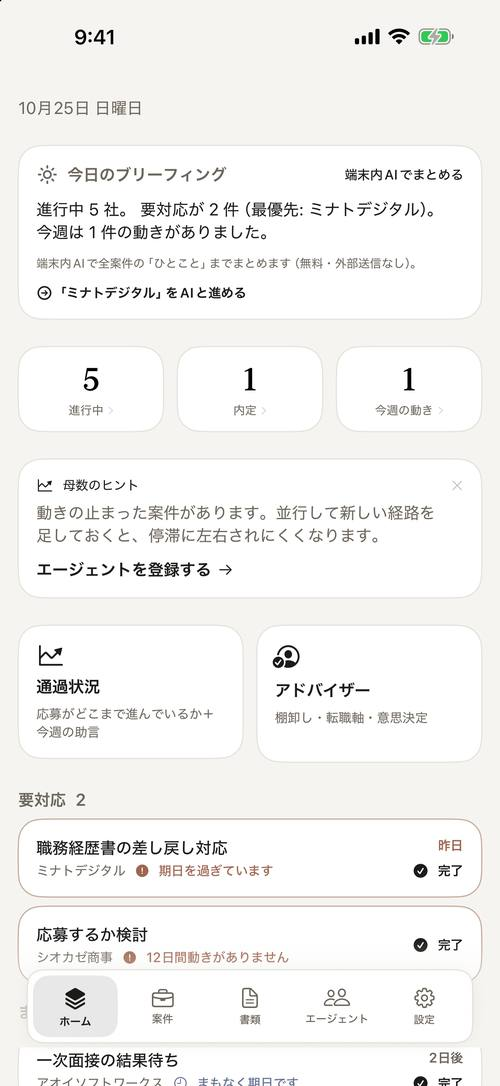
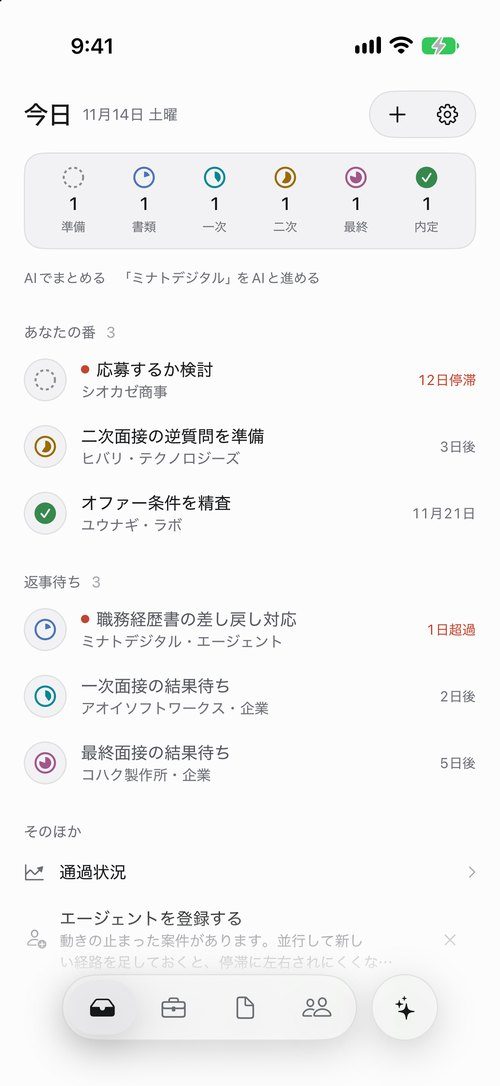
Glidwell: 画面画像9枚と説明を 1.8.0 の新しい画面に差し替え

diff --git a/glidwell.html b/glidwell.html
@@ -146,8 +146,8 @@
           <img class="story-shot" src="./assets/screens/glidwell-v2-home.jpg" alt="Glidwell ホームの画面" width="880" height="1907" loading="lazy" decoding="async">
           <div class="story-text">
             <div class="story-kicker">ホーム</div>
-            <h2>静かな1行から、一日が始まる。</h2>
-            <p>ホームは日付だけ。開くたびに急かされず、必要なときに「今日のブリーフィング」や進行中・内定・今週の動きを確認できます。</p>
+            <h2>今日やることが、いちばん上に。</h2>
+            <p>ホームは「あなたの番」と「返事待ち」に分かれています。自分が動く案件が上に並び、相手の返事を待っている案件は一段控えめに。上の帯では、応募準備から内定まで、どの段階に何社あるかを確認できます。</p>
             <p>複数のエージェントを併用しても、全体の現在地が散らばらない。「落ち着いて、ひとつずつ」進められます。</p>
           </div>
         </div>
@@ -156,8 +156,8 @@
           <div class="story-text">
             <div class="story-kicker">案件一覧</div>
             <h2>すべての選考を、一枚に並べる。</h2>
-            <p>応募中の企業をカードで一覧。フェーズ（書類選考・一次面接…）、いま誰の番か、期日、手応えの星を、横断で見渡せます。</p>
-            <p>「12日間動きがありません」のような停滞にも気づけます。検索で、目的の企業もすぐに。</p>
+            <p>応募中の企業を、1社1行で一覧。選考の段階は行頭の小さな印で、期日は右端で見分けられます。「あなたの番」「返事待ち」「終了」にまとまるので、次に動く企業がすぐ分かります。</p>
+            <p>「12日停滞」のように、止まっている案件にも気づけます。検索や絞り込みで、目的の企業もすぐに。</p>
           </div>
         </div>
         <div class="story-row">
